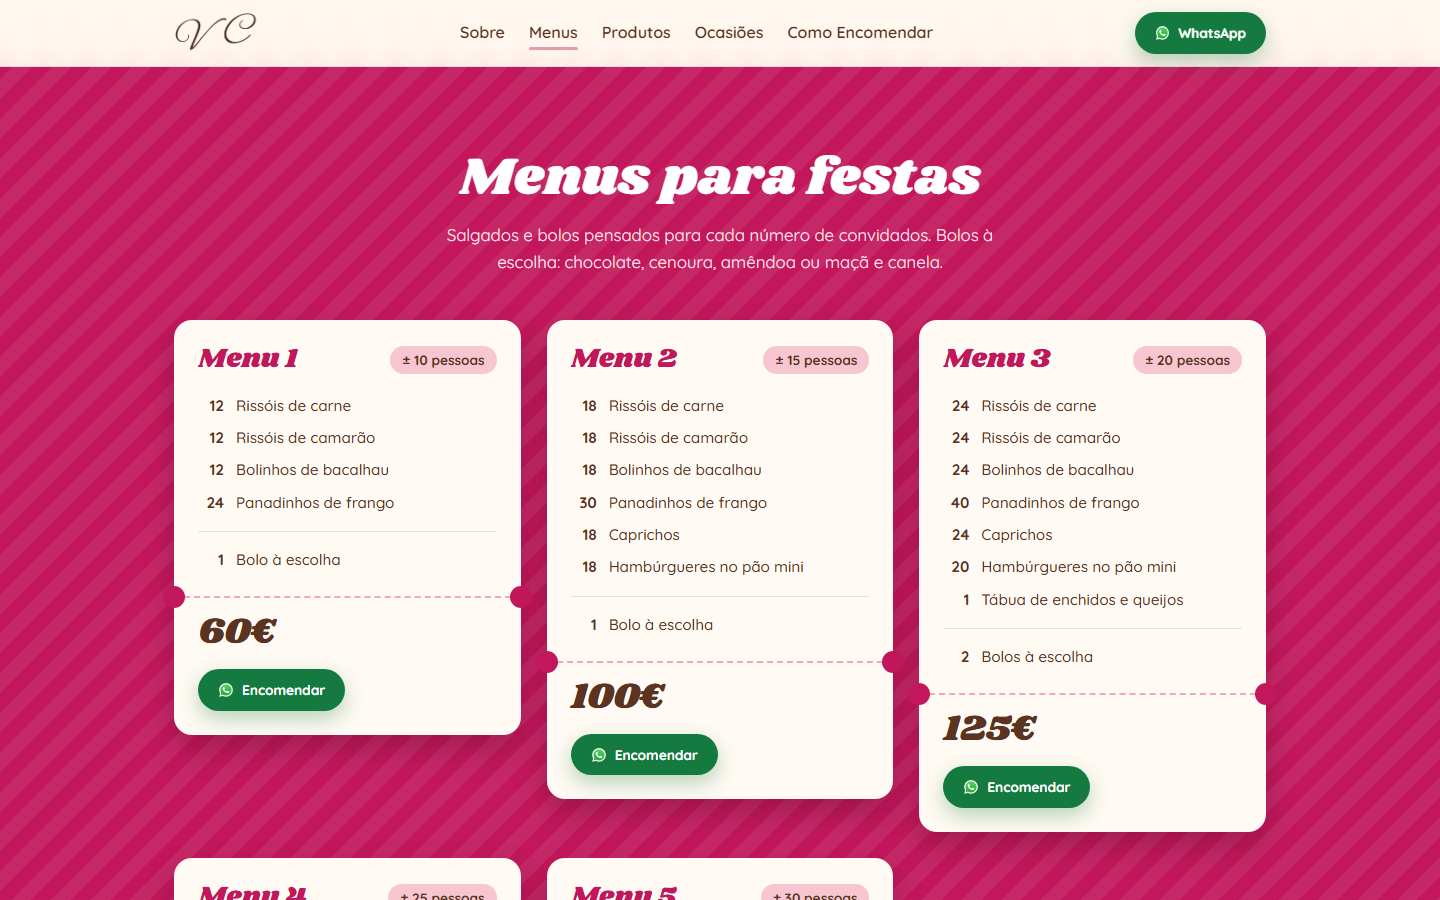
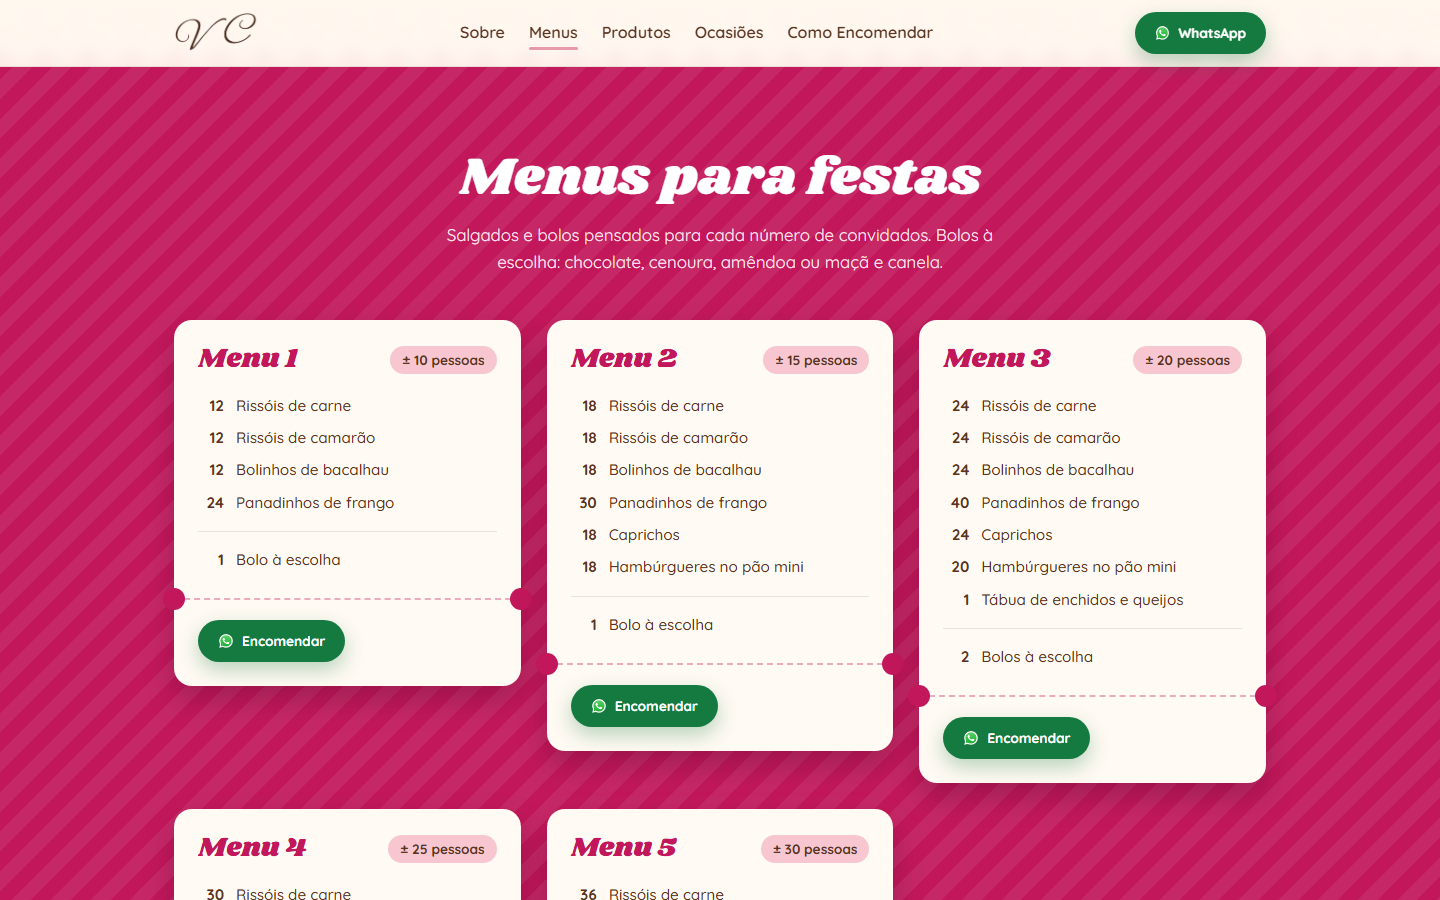
Update images and modify menu pricing display in HTML and CSS

Changed region(s): [[0.0938, 0.6533, 0.9062, 1.0], [0.75, 0.7467, 0.7812, 0.7778]]

diff --git a/index.html b/index.html
@@ -9,7 +9,7 @@
 <link rel="preconnect" href="https://fonts.googleapis.com">
 <link rel="preconnect" href="https://fonts.gstatic.com" crossorigin>
 <link href="https://fonts.googleapis.com/css2?family=Quicksand:wght@400;500;600;700&family=Shrikhand&display=swap" rel="stylesheet">
-<link rel="stylesheet" href="css/style.css?v=31">
+<link rel="stylesheet" href="css/style.css?v=32">
 </head>
 <body>
 
@@ -96,7 +96,7 @@
           <ul class="menu-itens menu-doces">
             <li><span>1</span> Bolo à escolha</li>
           </ul>
-          <p class="menu-preco">60€</p>
+          <div class="menu-picotado" aria-hidden="true"></div>
           <a class="btn btn-whatsapp btn-small" href="https://wa.me/351939523329?text=Ol%C3%A1!%20Gostaria%20de%20encomendar%20o%20Menu%201." target="_blank" rel="noopener">
             <img class="whatsapp-icon" src="images/WhatsApp.svg.webp" alt=""> Encomendar
           </a>
@@ -118,7 +118,7 @@
           <ul class="menu-itens menu-doces">
             <li><span>1</span> Bolo à escolha</li>
           </ul>
-          <p class="menu-preco">100€</p>
+          <div class="menu-picotado" aria-hidden="true"></div>
           <a class="btn btn-whatsapp btn-small" href="https://wa.me/351939523329?text=Ol%C3%A1!%20Gostaria%20de%20encomendar%20o%20Menu%202." target="_blank" rel="noopener">
             <img class="whatsapp-icon" src="images/WhatsApp.svg.webp" alt=""> Encomendar
           </a>
@@ -141,7 +141,7 @@
           <ul class="menu-itens menu-doces">
             <li><span>2</span> Bolos à escolha</li>
           </ul>
-          <p class="menu-preco">125€</p>
+          <div class="menu-picotado" aria-hidden="true"></div>
           <a class="btn btn-whatsapp btn-small" href="https://wa.me/351939523329?text=Ol%C3%A1!%20Gostaria%20de%20encomendar%20o%20Menu%203." target="_blank" rel="noopener">
             <img class="whatsapp-icon" src="images/WhatsApp.svg.webp" alt=""> Encomendar
           </a>
@@ -166,7 +166,7 @@
           <ul class="menu-itens menu-doces">
             <li><span>2</span> Bolos à escolha</li>
           </ul>
-          <p class="menu-preco">160€</p>
+          <div class="menu-picotado" aria-hidden="true"></div>
           <a class="btn btn-whatsapp btn-small" href="https://wa.me/351939523329?text=Ol%C3%A1!%20Gostaria%20de%20encomendar%20o%20Menu%204." target="_blank" rel="noopener">
             <img class="whatsapp-icon" src="images/WhatsApp.svg.webp" alt=""> Encomendar
           </a>
@@ -195,7 +195,7 @@
             <li><span>2</span> Bolos à escolha</li>
             <li><span>1</span> Tarte de maçã</li>
           </ul>
-          <p class="menu-preco">240€</p>
+          <div class="menu-picotado" aria-hidden="true"></div>
           <a class="btn btn-whatsapp btn-small" href="https://wa.me/351939523329?text=Ol%C3%A1!%20Gostaria%20de%20encomendar%20o%20Menu%205." target="_blank" rel="noopener">
             <img class="whatsapp-icon" src="images/WhatsApp.svg.webp" alt=""> Encomendar
           </a>

diff --git a/css/style.css b/css/style.css
@@ -514,18 +514,13 @@ img { max-width: 100%; display: block; }
 }
 
 /* Picotado do bilhete, com os recortes na cor da secção */
-.menu-preco {
+.menu-picotado {
   position: relative;
-  margin: 20px -24px 18px;
-  padding: 16px 24px 0;
+  margin: 22px -24px 20px;
   border-top: 2px dashed rgba(194, 24, 91, 0.35);
-  font-family: var(--display);
-  font-size: 2.3rem;
-  line-height: 1;
-  color: var(--brown);
 }
-.menu-preco::before,
-.menu-preco::after {
+.menu-picotado::before,
+.menu-picotado::after {
   content: '';
   position: absolute;
   top: -12px;
@@ -534,8 +529,8 @@ img { max-width: 100%; display: block; }
   border-radius: 50%;
   background: var(--framboesa);
 }
-.menu-preco::before { left: -11px; }
-.menu-preco::after { right: -11px; }
+.menu-picotado::before { left: -11px; }
+.menu-picotado::after { right: -11px; }
 
 .menu-card .btn { align-self: flex-start; }
 

diff --git a/DESIGN.md b/DESIGN.md
@@ -51,7 +51,7 @@ typography:
     letterSpacing: "0.005em"
   numeral:
     fontFamily: "Shrikhand, Quicksand, cursive"
-    fontSize: "2.3rem"
+    fontSize: "4.5rem"
     fontWeight: 400
     lineHeight: 1
   title-display:
@@ -205,7 +205,7 @@ Dentro da folha menta das Ocasiões, cada data é uma faixa a toda a largura com
 ### Hierarchy
 - **Display** (Shrikhand 400, clamp(2.5rem, 6.4vw, 4.8rem), 1.05): só o título do hero, centrado, max 14ch.
 - **Headline** (Shrikhand 400, clamp(2.1rem, 4.6vw, 3.3rem), 1.1): títulos de secção; em "Sobre" desce para clamp(1.9rem, 3.6vw, 2.7rem) por estar em coluna.
-- **Numeral** (Shrikhand 400, 2.3rem, 1): preço no bilhete; os numerais dos passos usam a mesma face a 4.5rem.
+- **Numeral** (Shrikhand 400, 4.5rem, 1): numerais dos passos em "Como encomendar". Os menus não mostram preço.
 - **Title Display** (Shrikhand 400, 1.7rem, 1): nome do menu no bilhete, em framboesa.
 - **Title** (Quicksand 700, 1.3rem): categorias de produtos e títulos dos passos.
 - **Body** (Quicksand 400, 1rem, 1.6): texto corrido, max 60ch; listas dos menus a 0.95rem/500 com quantidades em tabular-nums 700.
@@ -215,7 +215,7 @@ Dentro da folha menta das Ocasiões, cada data é uma faixa a toda a largura com
 ### Named Rules
 **The Shrikhand Só Grita Rule.** Shrikhand é para títulos de secção, o título do hero, nomes de menu e numerais. Nunca para parágrafos, chips, navegação ou botões.
 
-**The Números de Festa Rule.** Preços e números de passo são Shrikhand grande; quantidades em listas são Quicksand 700 com algarismos tabulares, alinhadas à direita.
+**The Números de Festa Rule.** Números de passo são Shrikhand grande; quantidades em listas são Quicksand 700 com algarismos tabulares, alinhadas à direita.
 
 ## Layout
 
@@ -242,7 +242,7 @@ A profundidade vem da sobreposição física do papel: o festão de cada folha c
 
 ## Shapes
 
-Formas de papelaria de festa: cantos redondos generosos (card, 18px) em bilhetes e fotos (12px nas fotos em móvel), pílulas totalmente redondas (pill) em todos os botões e chips, círculos para o logótipo. As fronteiras entre secções são festões de semicírculos (raio 22px, 14px em móvel) desenhados com a cor da folha de cima. As bandeirolas são triângulos invertidos pendurados de uma curva quadrática. O bilhete de menu tem uma linha picotada tracejada antes do preço com dois recortes circulares de 22px nas pontas, pintados na cor da secção. Separadores de categoria são linhas pontilhadas de 2px a 30% da tinta.
+Formas de papelaria de festa: cantos redondos generosos (card, 18px) em bilhetes e fotos (12px nas fotos em móvel), pílulas totalmente redondas (pill) em todos os botões e chips, círculos para o logótipo. As fronteiras entre secções são festões de semicírculos (raio 22px, 14px em móvel) desenhados com a cor da folha de cima. As bandeirolas são triângulos invertidos pendurados de uma curva quadrática. O bilhete de menu tem uma linha picotada tracejada antes do botão com dois recortes circulares de 22px nas pontas, pintados na cor da secção. Separadores de categoria são linhas pontilhadas de 2px a 30% da tinta.
 
 ## Components
 
@@ -259,7 +259,7 @@ Redondos, sólidos, verdes; dizem sempre "WhatsApp".
 - **Ver todas / Ver menos:** pílula chiclete com chevron SVG que roda 180° quando aberto; em hover passa a branco (na folha menta o par inverte-se: branco em repouso, chiclete em hover).
 
 ### Cards / Containers
-- **Bilhete de menu:** papel-bilhete, canto card, sombra Bilhete, cabeçalho com nome em Shrikhand framboesa e chip de pessoas, listas com quantidades, separador fino antes dos doces, picotado com recortes antes do preço Shrikhand, botão pequeno alinhado à esquerda. Hover: sobe 4px e inclina 0.6° (alternando o sentido entre pares e ímpares).
+- **Bilhete de menu:** papel-bilhete, canto card, sombra Bilhete, cabeçalho com nome em Shrikhand framboesa e chip de pessoas, listas com quantidades, separador fino antes dos doces, picotado com recortes, botão pequeno alinhado à esquerda. Hover: sobe 4px e inclina 0.6° (alternando o sentido entre pares e ímpares).
 - **Foto de produto:** moldura 4:3 com canto card, fundo de espera a 12% da tinta sobre a folha, sombra tingida; a imagem aproxima 1.05 em hover (0.6s) e abre lightbox.
 
 ### Navigation

diff --git a/PRODUCT.md b/PRODUCT.md
@@ -14,7 +14,7 @@ web
 Chegam muitas vezes pelo telemóvel (Instagram, WhatsApp, partilhas).
 
 ## Product Purpose
-Site de apresentação do Cheirinho a Bolo, pastelaria caseira por encomenda (desde fevereiro de 2022). Mostra trabalhos, menus de festa com preços e leva o visitante a encomendar pelo WhatsApp. Sucesso = o visitante escolhe e abre a conversa no WhatsApp.
+Site de apresentação do Cheirinho a Bolo, pastelaria caseira por encomenda (desde fevereiro de 2022). Mostra trabalhos, menus de festa e leva o visitante a encomendar pelo WhatsApp. Sucesso = o visitante escolhe e abre a conversa no WhatsApp.
 
 ## Positioning
 Caseiro e feito à mão, bolos personalizados ao tema de cada festa, e tudo num só sítio (bolos, salgados e menus completos) a preço acessível para famílias.
@@ -22,7 +22,7 @@ Caseiro e feito à mão, bolos personalizados ao tema de cada festa, e tudo num 
 ## Operating Context
 - Encomendas apenas via WhatsApp (+351 939 523 329); sem loja online nem pagamentos no site.
 - Instagram: @_cheirinho.a.bolo_.
-- Menus 1–5 com preço fixo para ±10 a ±30 pessoas.
+- Menus 1–5 para ±10 a ±30 pessoas; preços não aparecem no site (combinam-se pelo WhatsApp).
 
 ## Capabilities and Constraints
 - Site estático: index.html, css/style.css, js/script.js, sem build.
@@ -35,7 +35,7 @@ Caseiro e feito à mão, bolos personalizados ao tema de cada festa, e tudo num 
 
 ## Evidence on Hand
 - Fotos reais de produtos em images-web/ por categoria e ocasião.
-- Menus e preços reais (secção Menus).
+- Menus reais com quantidades (secção Menus); preços não publicados.
 - Sem testemunhos, avaliações ou números de clientes: não inventar.
 
 ## Product Principles

diff --git a/.impeccable/surfaces/index-html.md b/.impeccable/surfaces/index-html.md
@@ -16,7 +16,7 @@ THESIS: O site é uma festa a ser montada: cada secção é uma folha inteira de
 
 OWN-WORLD: Blocos de cor inteira por secção (rosa-chiclete hero, creme-baunilha sobre, framboesa nos Menus como cor de alarme reservada, chocolate nos produtos, menta nas ocasiões, rosa claro em encomendar, castanho no rodapé). Bordas recortadas em festão (scallop) entre secções, bandeirolas SVG, confettis como padrão. Display Shrikhand, corpo Quicksand. Cartões de menu como bilhetes/convites com picotado.
 
-STORY: Percebe-se logo que é pastelaria caseira para festas; vê menus com preço fixo para N pessoas; vê fotos reais; toca no WhatsApp.
+STORY: Percebe-se logo que é pastelaria caseira para festas; vê menus para N pessoas (preço combina-se no WhatsApp); vê fotos reais; toca no WhatsApp.
 
 FIRST VIEWPORT: Cabeçalho da marca; hero rosa-chiclete a toda a largura com fio de bandeirolas a atravessar no topo, título Shrikhand grande centrado, subtítulo, botão WhatsApp e chip Instagram; confettis a cair devagar; borda em festão a revelar a secção seguinte.
 
